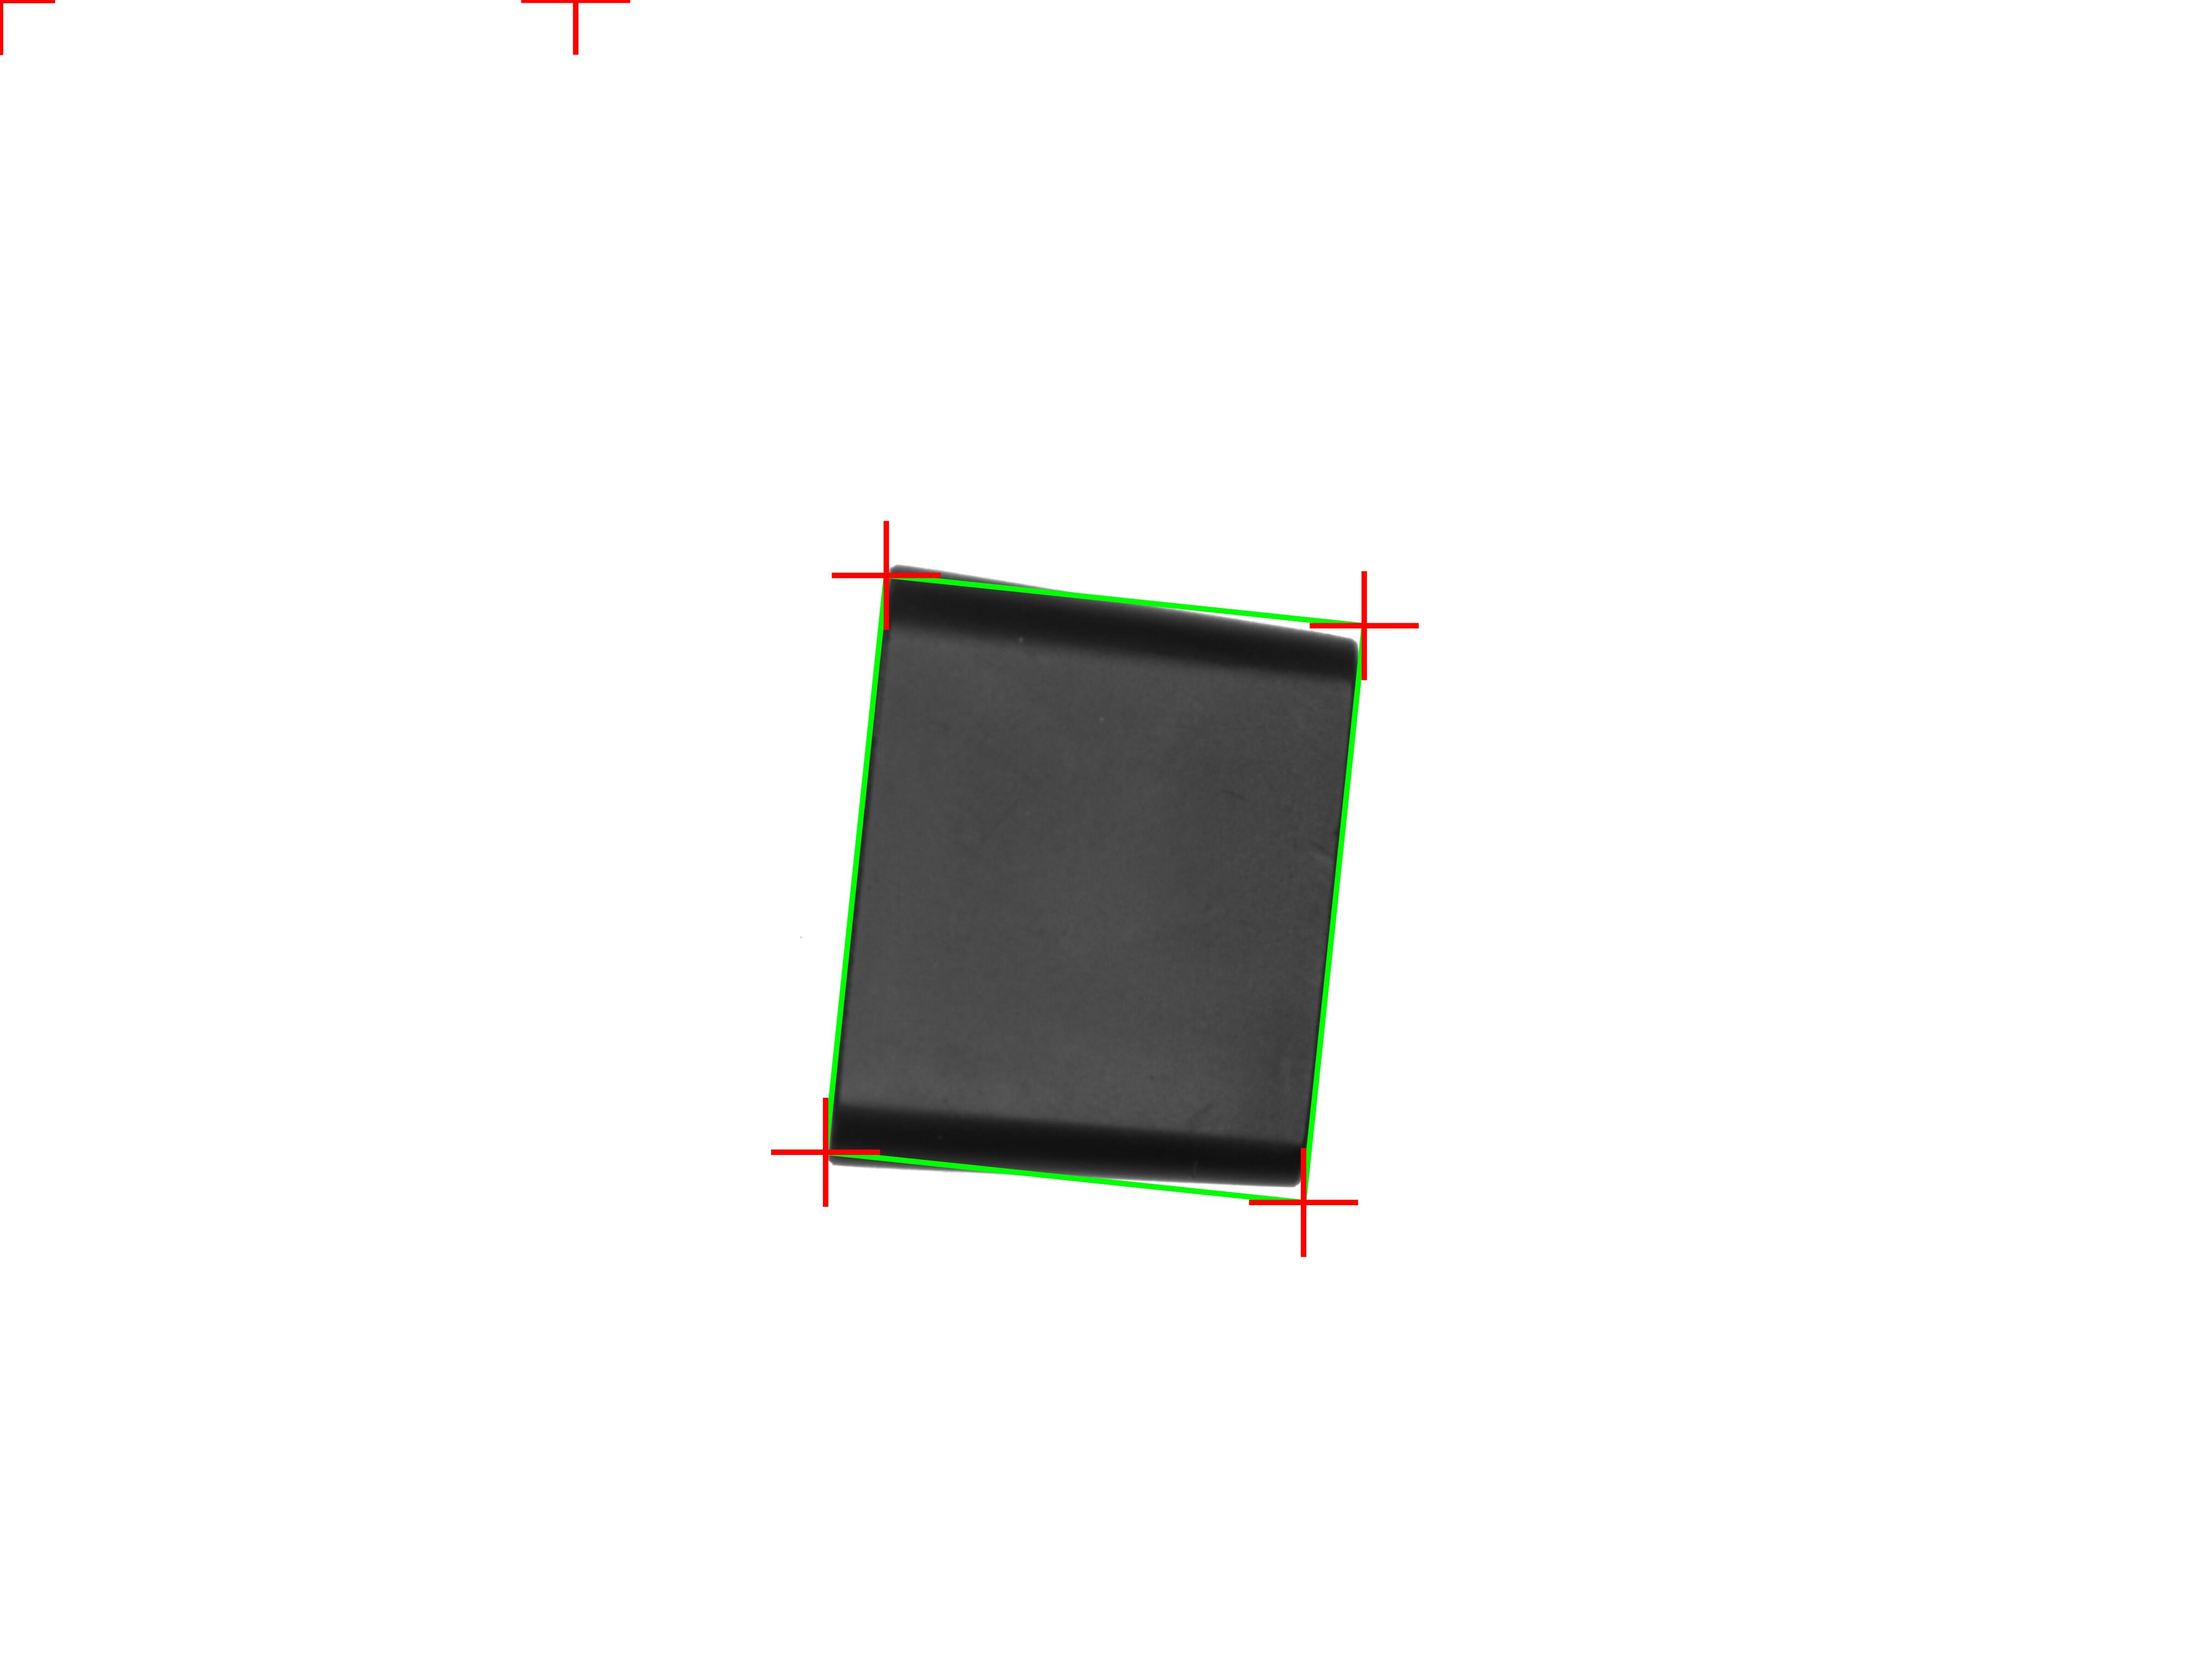
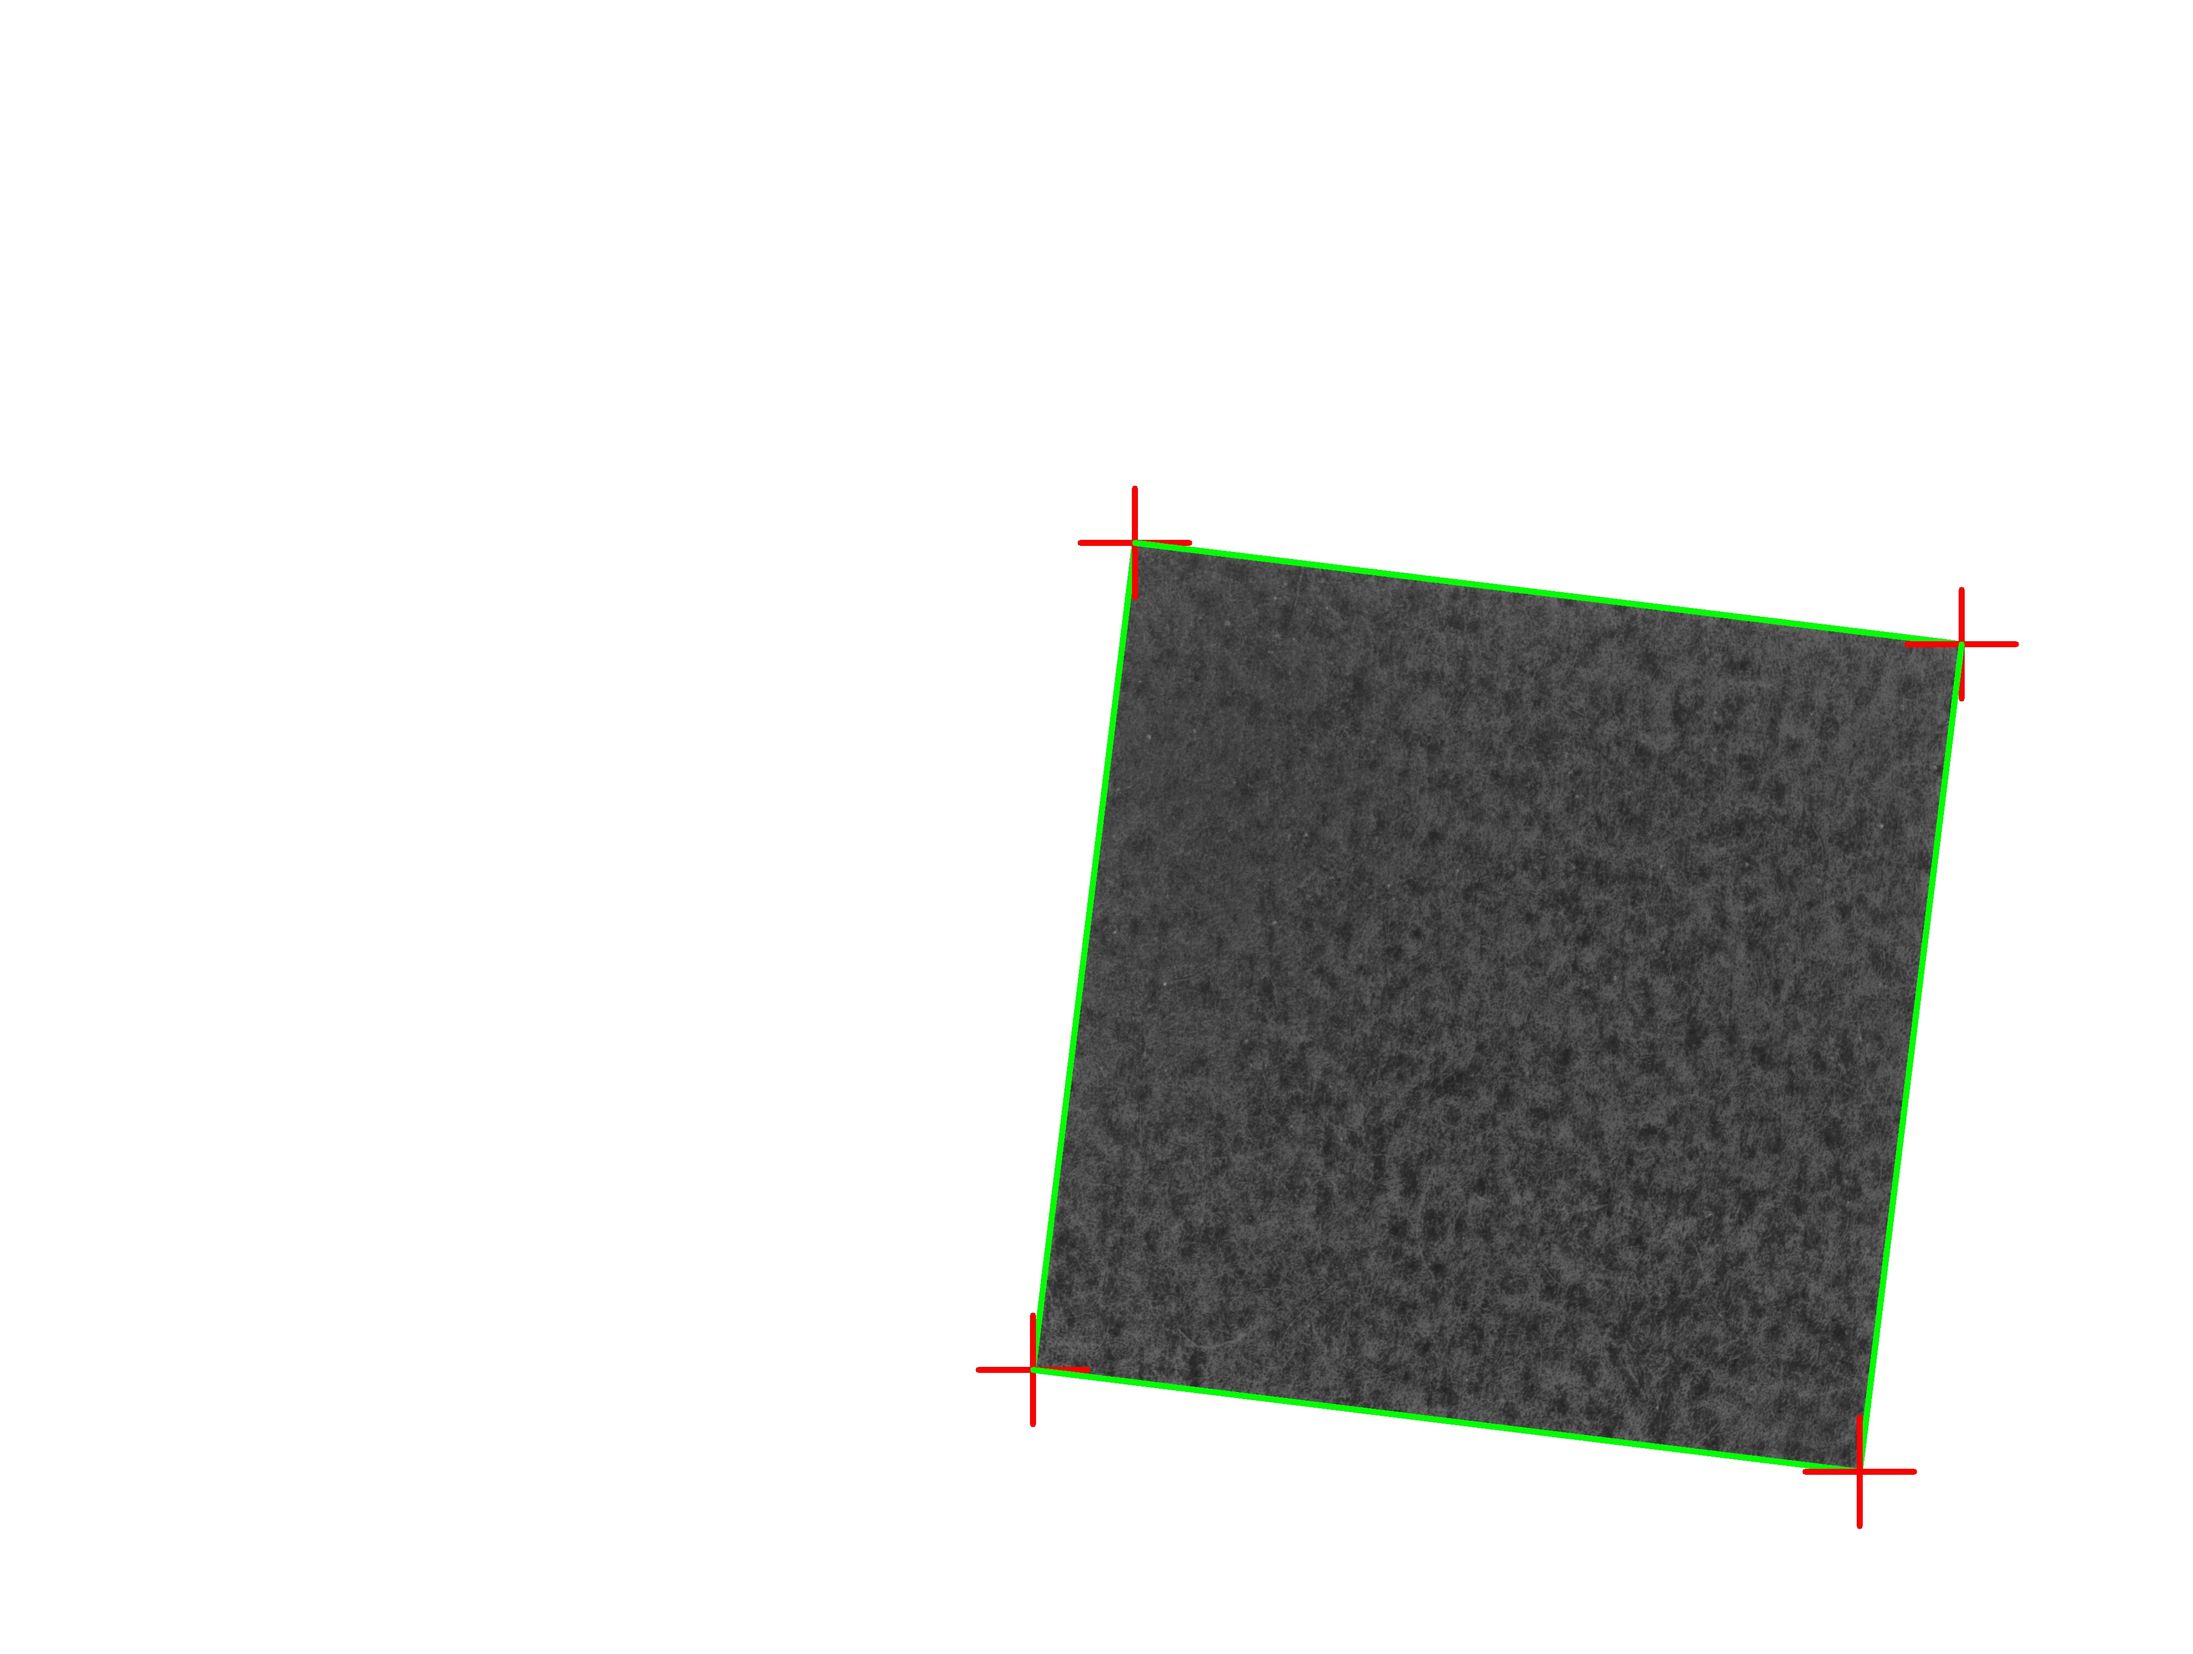
VIsualRobot_wzh：实用矩阵变换

Changed region(s): [[0.3728, 0.3096, 0.9008, 0.8979], [0.2485, 0.0, 0.2796, 0.031]]

diff --git a/VisualRobot/DIP.cpp b/VisualRobot/DIP.cpp
@@ -50,13 +50,13 @@ bool createDirectory(const string& path)
 int TransMatrix(const QVector<QPointF>& WorldCoord, const QVector<QPointF>& PixelCoord, Matrix3d& matrix, const string& filename = "")
 {
     // 参数校验
+    const int pointCount = WorldCoord.count();
     if (WorldCoord.count() != PixelCoord.count())
     {
         cerr << "错误: 世界坐标与像素坐标数量不匹配" << endl;
         return 1; // 错误码1: 坐标数量不匹配
     }
 
-    const int pointCount = WorldCoord.count();
     if (pointCount < 3)
     {
         cerr << "错误: 至少需要3个对应点" << endl;
@@ -65,48 +65,119 @@ int TransMatrix(const QVector<QPointF>& WorldCoord, const QVector<QPointF>& Pixe
 
     try
     {
-        // 转换像素坐标到Eigen矩阵（n×3齐次坐标）
-        Eigen::MatrixXd PixelCoord1(pointCount, 3);
-        for(int i = 0; i < pointCount; ++i)
+        // 预分配内存并避免重复计算
+        MatrixXd A = MatrixXd::Zero(2 * pointCount, 6);
+        VectorXd b = VectorXd::Zero(2 * pointCount);
+
+        // 使用更高效的矩阵填充方式
+        for (int i = 0; i < pointCount; ++i)
         {
-            PixelCoord1(i, 0) = PixelCoord[i].x();
-            PixelCoord1(i, 1) = PixelCoord[i].y();
-            PixelCoord1(i, 2) = 1.0;
+            const double u = PixelCoord[i].x();
+            const double v = PixelCoord[i].y();
+            const double x = WorldCoord[i].x();
+            const double y = WorldCoord[i].y();
+
+            const int row1 = 2 * i;
+            const int row2 = 2 * i + 1;
+
+            // x坐标方程: x = a*u + b*v + c
+            A(row1, 0) = u;
+            A(row1, 1) = v;
+            A(row1, 2) = 1.0;
+            b(row1) = x;
+
+            // y坐标方程: y = d*u + e*v + f
+            A(row2, 3) = u;
+            A(row2, 4) = v;
+            A(row2, 5) = 1.0;
+            b(row2) = y;
         }
 
-        // 转换世界坐标到Eigen矩阵（n×3齐次坐标）
-        Eigen::MatrixXd WorldCoord1(pointCount, 3);
-        for(int i = 0; i < pointCount; ++i)
-        {
-            WorldCoord1(i, 0) = WorldCoord[i].x();       // X坐标
-            WorldCoord1(i, 1) = WorldCoord[i].y();       // Y坐标
-            WorldCoord1(i, 2) = 1.0;
+        // 精度优化1: 数据归一化处理（提高数值稳定性）
+        Vector2d pixel_mean = Vector2d::Zero();
+        Vector2d world_mean = Vector2d::Zero();
+
+        for (int i = 0; i < pointCount; ++i) {
+            pixel_mean += Vector2d(PixelCoord[i].x(), PixelCoord[i].y());
+            world_mean += Vector2d(WorldCoord[i].x(), WorldCoord[i].y());
+        }
+        pixel_mean /= pointCount;
+        world_mean /= pointCount;
+
+        double pixel_scale = 0.0;
+        double world_scale = 0.0;
+        for (int i = 0; i < pointCount; ++i) {
+            pixel_scale += (Vector2d(PixelCoord[i].x(), PixelCoord[i].y()) - pixel_mean).norm();
+            world_scale += (Vector2d(WorldCoord[i].x(), WorldCoord[i].y()) - world_mean).norm();
+        }
+        pixel_scale /= pointCount;
+        world_scale /= pointCount;
+
+        // 高级精度优化1: 加权最小二乘法
+        // 根据点的质量分配权重（距离中心越近的点权重越高）
+        VectorXd weights = VectorXd::Ones(2 * pointCount);
+        Vector2d pixel_center = pixel_mean;
+        for (int i = 0; i < pointCount; ++i) {
+            Vector2d pixel_vec(PixelCoord[i].x(), PixelCoord[i].y());
+            double distance = (pixel_vec - pixel_center).norm();
+            double weight = exp(-distance * distance / (2.0 * pixel_scale * pixel_scale));
+            weights(2*i) = weight;
+            weights(2*i+1) = weight;
         }
 
-        // 最小二乘解方程：A^T*A*X = A^T*B
-        Eigen::MatrixXd ATA = PixelCoord1.transpose() * PixelCoord1;
-        Eigen::MatrixXd ATB = PixelCoord1.transpose() * WorldCoord1;
+        // 构建加权矩阵
+        MatrixXd W = weights.asDiagonal();
+        MatrixXd ATWA = A.transpose() * W * A;
+        VectorXd ATWb = A.transpose() * W * b;
 
-        // LDLT分解求解（更高效且数值稳定）
-        if(ATA.determinant() < 1e-10) {
-            cerr << "错误: 矩阵奇异，无法求解" << endl;
-            return 3; // 错误码3: 矩阵奇异
+        // 高级精度优化2: 使用更稳定的求解方法
+        VectorXd x = ATWA.completeOrthogonalDecomposition().solve(ATWb);
+
+        // 高级精度优化3: 多次迭代精化
+        const int max_refinement_iterations = 3;
+        double prev_error = numeric_limits<double>::max();
+
+        for (int iter = 0; iter < max_refinement_iterations; ++iter) {
+            VectorXd residual = b - A * x;
+            double current_error = residual.norm();
+
+            // 如果误差不再显著减小，停止迭代
+            if (abs(prev_error - current_error) < 1e-12 * prev_error) {
+                break;
+            }
+            prev_error = current_error;
+
+            // 求解修正量
+            VectorXd correction = ATWA.completeOrthogonalDecomposition().solve(A.transpose() * W * residual);
+            x += correction;
         }
-        
-        // 求解变换矩阵
-        Eigen::MatrixXd resultMatrix = ATA.ldlt().solve(ATB);
-        
-        // 构建3x3变换矩阵
-        matrix << resultMatrix(0, 0), resultMatrix(0, 1), resultMatrix(0, 2),
-                  resultMatrix(1, 0), resultMatrix(1, 1), resultMatrix(1, 2),
-                  resultMatrix(2, 0), resultMatrix(2, 1), resultMatrix(2, 2);
 
-        // 输出矩阵信息（高精度格式）
+        // 高级精度优化4: RANSAC异常点检测（可选）
+        // 可以添加RANSAC来检测和移除异常点，进一步提高精度
+
+        // 计算最终误差并输出
+        VectorXd final_residual = b - A * x;
+        double final_error = final_residual.norm();
+        cout << "最终残差范数: " << scientific << setprecision(6) << final_error << endl;
+
+        // 输出每个点的误差
+        cout << "各点误差分析:" << endl;
+        for (int i = 0; i < pointCount; ++i) {
+            Vector2d pixel_err(final_residual(2*i), final_residual(2*i+1));
+            cout << "点 " << i << ": 误差 = " << pixel_err.norm() << " pixels" << endl;
+        }
+
+        // 构建变换矩阵
+        matrix << x(0), x(1), x(2),
+                  x(3), x(4), x(5),
+                  0.0,  0.0,  1.0;
+
+        // 输出矩阵信息
         cout << "变换矩阵:" << endl;
         cout << fixed << setprecision(10);
         cout << matrix << endl;
 
-        // 验证变换结果
+        // 验证变换矩阵
         cout << "验证变换结果:" << endl;
         for (int i = 0; i < pointCount; ++i)
         {
@@ -115,10 +186,10 @@ int TransMatrix(const QVector<QPointF>& WorldCoord, const QVector<QPointF>& Pixe
 
             double error_x = std::abs(world[0] - WorldCoord[i].x());
             double error_y = std::abs(world[1] - WorldCoord[i].y());
-            
+
             cout << "像素坐标: (" << pixel[0] << ", " << pixel[1] << ") -> ";
             cout << "计算的世界坐标: (" << world[0] << ", " << world[1] << ") ";
-            cout << "实际的世界坐标: (" << WorldCoord[i].x() << ", " << WorldCoord[i].y() << ")";
+            cout << "实际的世界坐标: (" << WorldCoord[i].x() << ", " << WorldCoord[i].y() << ")" << endl;
             cout << " 误差: (" << error_x << ", " << error_y << ")" << endl;
         }
 

diff --git a/VisualRobot/mainwindow.cpp b/VisualRobot/mainwindow.cpp
@@ -822,40 +822,6 @@ void MainWindow::appendLog(const QString &message, int logType, double value)
 void MainWindow::on_GetLength_clicked()
 {
     vector<QPointF> points;
-//    points.reserve(Row.Length()); // 预分配空间
-//    Matrix3d transMatrix = readTransformationMatrix("../matrix.bin");
-//    appendLog("成功读取变换矩阵，详见终端显示", INFO);
-//    // 输出变换矩阵
-//    cout << "变换矩阵:" << endl;
-//    cout << fixed << setprecision(10); // 设置输出精度
-//    cout << transMatrix << endl;
-//    if (Row.Length() <=0 || Col.Length() <= 0 || (Row.Length() != Col.Length()))
-//    {
-//        appendLog("未能正确读取角点", ERROR);
-//        return;
-//    }
-
-//    for (int i = 0; i < Row.Length(); ++i)
-//    {
-//        double x = Col[i].D();  // 获取列坐标（转换为 double）
-//        double y = Row[i].D();  // 获取行坐标（转换为 double）
-//        // 创建齐次坐标向量 [x, y, 1]
-//        Vector3d s(x, y, 1.0);
-//        // 应用变换矩阵
-//        Vector3d d = transMatrix * s;
-//        // 创建变换后的 QPointF
-//        QPointF transformedPoint(d(0), d(1));
-//        // 添加到结果向量
-//        points.push_back(transformedPoint);
-//        // 输出转换信息
-//        cout << "点 " << i << ": 像素坐标 (" << x << ", " << y << ") -> ";
-//        cout << "世界坐标 (" << transformedPoint.x() << ", " << transformedPoint.y() << ")" << endl;
-//        appendLog(QString("第%1个角点(x,y)世界坐标为：(%2, %3)")
-//                  .arg(i+1)
-//                  .arg(static_cast<double>(transformedPoint.x()))
-//                  .arg(static_cast<double>(transformedPoint.y())),
-//                  INFO);
-//    }
     points.reserve(Row.size()); // 预分配空间
     Matrix3d transMatrix = readTransformationMatrix("../matrix.bin");
     appendLog("成功读取变换矩阵，详见终端显示", INFO);
@@ -863,6 +829,20 @@ void MainWindow::on_GetLength_clicked()
     cout << "变换矩阵:" << endl;
     cout << fixed << setprecision(10); // 设置输出精度
     cout << transMatrix << endl;
+
+//    // Test
+//    Col.clear();
+//    Col.push_back(2862.84);
+//    Col.push_back(1347.74);
+//    Col.push_back(1246.92);
+//    Col.push_back(2764.09);
+
+//    Row.clear();
+//    Row.push_back(2077.07);
+//    Row.push_back(2281.61);
+//    Row.push_back(1523.68);
+//    Row.push_back(1318.45);
+
     if (Row.size() <=0 || Col.size() <= 0 || (Row.size() != Col.size()))
     {
         appendLog("未能正确读取角点", ERROR);
